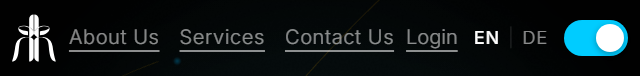
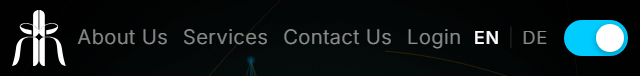
Style: Move Login link to middle section on mobile, evenly spaced, without underline

diff --git a/AntigravityHero.tsx b/AntigravityHero.tsx
@@ -163,7 +163,7 @@ export default function AntigravityHero() {
         <div style={{ 
           display: 'flex', 
           justifyContent: isMobile ? 'space-between' : 'center',
-          gap: isMobile ? scaled(10, scale) : isTablet ? '24px' : '48px', 
+          gap: isMobile ? '0px' : isTablet ? '24px' : '48px', 
           alignItems: 'center', 
           padding: '0',
           fontSize: isMobile ? scaled(10, scale) : isTablet ? '12px' : '13px', 
@@ -172,12 +172,14 @@ export default function AntigravityHero() {
           fontWeight: 300, 
           letterSpacing: '0.03em',
           transition: 'background 0.3s ease, color 0.3s ease',
-          whiteSpace: 'nowrap'
+          whiteSpace: 'nowrap',
+          width: '100%'
         }}>
 
-          <a href="#about" style={{ color: 'inherit', textDecoration: isMobile ? 'underline' : 'none', textUnderlineOffset: '3px', transition: 'color 0.2s', whiteSpace: 'nowrap' }} onMouseOver={e => e.currentTarget.style.color = fg} onMouseOut={e => e.currentTarget.style.color = muted}>{t.nav[1]}</a>
-          <a href="#services" style={{ color: 'inherit', textDecoration: isMobile ? 'underline' : 'none', textUnderlineOffset: '3px', transition: 'color 0.2s', whiteSpace: 'nowrap' }} onMouseOver={e => e.currentTarget.style.color = fg} onMouseOut={e => e.currentTarget.style.color = muted}>{t.nav[2]}</a>
-          <a href="#contact" style={{ color: 'inherit', textDecoration: isMobile ? 'underline' : 'none', textUnderlineOffset: '3px', transition: 'color 0.2s', whiteSpace: 'nowrap' }} onMouseOver={e => e.currentTarget.style.color = fg} onMouseOut={e => e.currentTarget.style.color = muted}>{t.nav[3]}</a>
+          <a href="#about" style={{ color: 'inherit', textDecoration: 'none', transition: 'color 0.2s', whiteSpace: 'nowrap' }} onMouseOver={e => e.currentTarget.style.color = fg} onMouseOut={e => e.currentTarget.style.color = muted}>{t.nav[1]}</a>
+          <a href="#services" style={{ color: 'inherit', textDecoration: 'none', transition: 'color 0.2s', whiteSpace: 'nowrap' }} onMouseOver={e => e.currentTarget.style.color = fg} onMouseOut={e => e.currentTarget.style.color = muted}>{t.nav[2]}</a>
+          <a href="#contact" style={{ color: 'inherit', textDecoration: 'none', transition: 'color 0.2s', whiteSpace: 'nowrap' }} onMouseOver={e => e.currentTarget.style.color = fg} onMouseOut={e => e.currentTarget.style.color = muted}>{t.nav[3]}</a>
+          {isMobile && <a href="#" style={{ color: 'inherit', textDecoration: 'none', transition: 'color 0.2s', whiteSpace: 'nowrap' }} onMouseOver={e => e.currentTarget.style.color = fg} onMouseOut={e => e.currentTarget.style.color = muted}>{t.nav[4]}</a>}
         </div>
         <div style={{ 
           display: 'flex', 
@@ -191,7 +193,7 @@ export default function AntigravityHero() {
           transition: 'background 0.3s ease, color 0.3s ease',
           whiteSpace: 'nowrap'
         }}>
-          <a href="#" style={{ color: 'inherit', textDecoration: isMobile ? 'underline' : 'none', textUnderlineOffset: '3px', transition: 'color 0.2s', whiteSpace: 'nowrap' }} onMouseOver={e => e.currentTarget.style.color = fg} onMouseOut={e => e.currentTarget.style.color = muted}>{t.nav[4]}</a>
+          {!isMobile && <a href="#" style={{ color: 'inherit', textDecoration: 'none', transition: 'color 0.2s', whiteSpace: 'nowrap' }} onMouseOver={e => e.currentTarget.style.color = fg} onMouseOut={e => e.currentTarget.style.color = muted}>{t.nav[4]}</a>}
           <div style={{ display: 'flex', gap: isMobile ? scaled(4, scale) : '8px', alignItems: 'center', fontSize: isMobile ? scaled(9, scale) : '11px', letterSpacing: '0.05em', whiteSpace: 'nowrap' }}>
             <span onClick={() => setLang('EN')} style={{ cursor: 'pointer', color: lang === 'EN' ? fg : 'inherit', fontWeight: lang === 'EN' ? 500 : 300, transition: 'color .2s', whiteSpace: 'nowrap' }}>EN</span>
             <span style={{ opacity: 0.2 }}>|</span>

diff --git a/src/components/AntigravityHero.tsx b/src/components/AntigravityHero.tsx
@@ -163,7 +163,7 @@ export default function AntigravityHero() {
         <div style={{ 
           display: 'flex', 
           justifyContent: isMobile ? 'space-between' : 'center',
-          gap: isMobile ? scaled(10, scale) : isTablet ? '24px' : '48px', 
+          gap: isMobile ? '0px' : isTablet ? '24px' : '48px', 
           alignItems: 'center', 
           padding: '0',
           fontSize: isMobile ? scaled(10, scale) : isTablet ? '12px' : '13px', 
@@ -172,12 +172,14 @@ export default function AntigravityHero() {
           fontWeight: 300, 
           letterSpacing: '0.03em',
           transition: 'background 0.3s ease, color 0.3s ease',
-          whiteSpace: 'nowrap'
+          whiteSpace: 'nowrap',
+          width: '100%'
         }}>
 
-          <a href="#about" style={{ color: 'inherit', textDecoration: isMobile ? 'underline' : 'none', textUnderlineOffset: '3px', transition: 'color 0.2s', whiteSpace: 'nowrap' }} onMouseOver={e => e.currentTarget.style.color = fg} onMouseOut={e => e.currentTarget.style.color = muted}>{t.nav[1]}</a>
-          <a href="#services" style={{ color: 'inherit', textDecoration: isMobile ? 'underline' : 'none', textUnderlineOffset: '3px', transition: 'color 0.2s', whiteSpace: 'nowrap' }} onMouseOver={e => e.currentTarget.style.color = fg} onMouseOut={e => e.currentTarget.style.color = muted}>{t.nav[2]}</a>
-          <a href="#contact" style={{ color: 'inherit', textDecoration: isMobile ? 'underline' : 'none', textUnderlineOffset: '3px', transition: 'color 0.2s', whiteSpace: 'nowrap' }} onMouseOver={e => e.currentTarget.style.color = fg} onMouseOut={e => e.currentTarget.style.color = muted}>{t.nav[3]}</a>
+          <a href="#about" style={{ color: 'inherit', textDecoration: 'none', transition: 'color 0.2s', whiteSpace: 'nowrap' }} onMouseOver={e => e.currentTarget.style.color = fg} onMouseOut={e => e.currentTarget.style.color = muted}>{t.nav[1]}</a>
+          <a href="#services" style={{ color: 'inherit', textDecoration: 'none', transition: 'color 0.2s', whiteSpace: 'nowrap' }} onMouseOver={e => e.currentTarget.style.color = fg} onMouseOut={e => e.currentTarget.style.color = muted}>{t.nav[2]}</a>
+          <a href="#contact" style={{ color: 'inherit', textDecoration: 'none', transition: 'color 0.2s', whiteSpace: 'nowrap' }} onMouseOver={e => e.currentTarget.style.color = fg} onMouseOut={e => e.currentTarget.style.color = muted}>{t.nav[3]}</a>
+          {isMobile && <a href="#" style={{ color: 'inherit', textDecoration: 'none', transition: 'color 0.2s', whiteSpace: 'nowrap' }} onMouseOver={e => e.currentTarget.style.color = fg} onMouseOut={e => e.currentTarget.style.color = muted}>{t.nav[4]}</a>}
         </div>
         <div style={{ 
           display: 'flex', 
@@ -191,7 +193,7 @@ export default function AntigravityHero() {
           transition: 'background 0.3s ease, color 0.3s ease',
           whiteSpace: 'nowrap'
         }}>
-          <a href="#" style={{ color: 'inherit', textDecoration: isMobile ? 'underline' : 'none', textUnderlineOffset: '3px', transition: 'color 0.2s', whiteSpace: 'nowrap' }} onMouseOver={e => e.currentTarget.style.color = fg} onMouseOut={e => e.currentTarget.style.color = muted}>{t.nav[4]}</a>
+          {!isMobile && <a href="#" style={{ color: 'inherit', textDecoration: 'none', transition: 'color 0.2s', whiteSpace: 'nowrap' }} onMouseOver={e => e.currentTarget.style.color = fg} onMouseOut={e => e.currentTarget.style.color = muted}>{t.nav[4]}</a>}
           <div style={{ display: 'flex', gap: isMobile ? scaled(4, scale) : '8px', alignItems: 'center', fontSize: isMobile ? scaled(9, scale) : '11px', letterSpacing: '0.05em', whiteSpace: 'nowrap' }}>
             <span onClick={() => setLang('EN')} style={{ cursor: 'pointer', color: lang === 'EN' ? fg : 'inherit', fontWeight: lang === 'EN' ? 500 : 300, transition: 'color .2s', whiteSpace: 'nowrap' }}>EN</span>
             <span style={{ opacity: 0.2 }}>|</span>